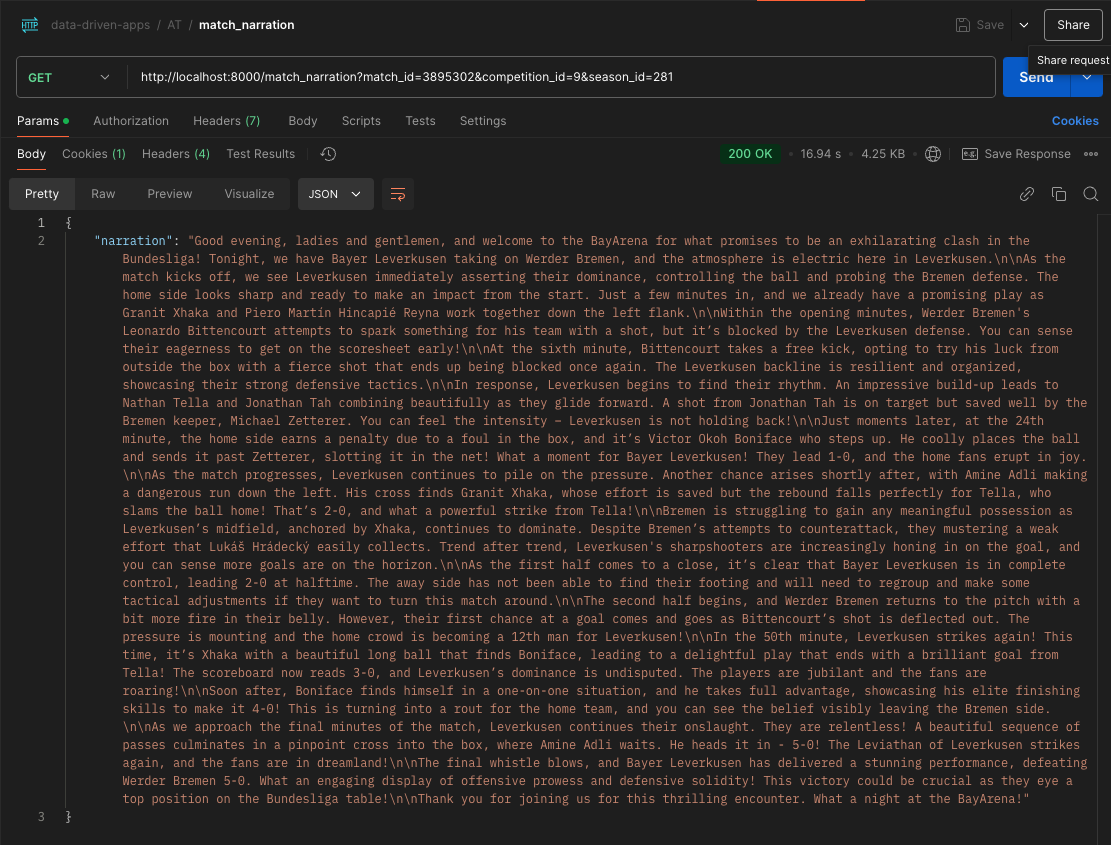
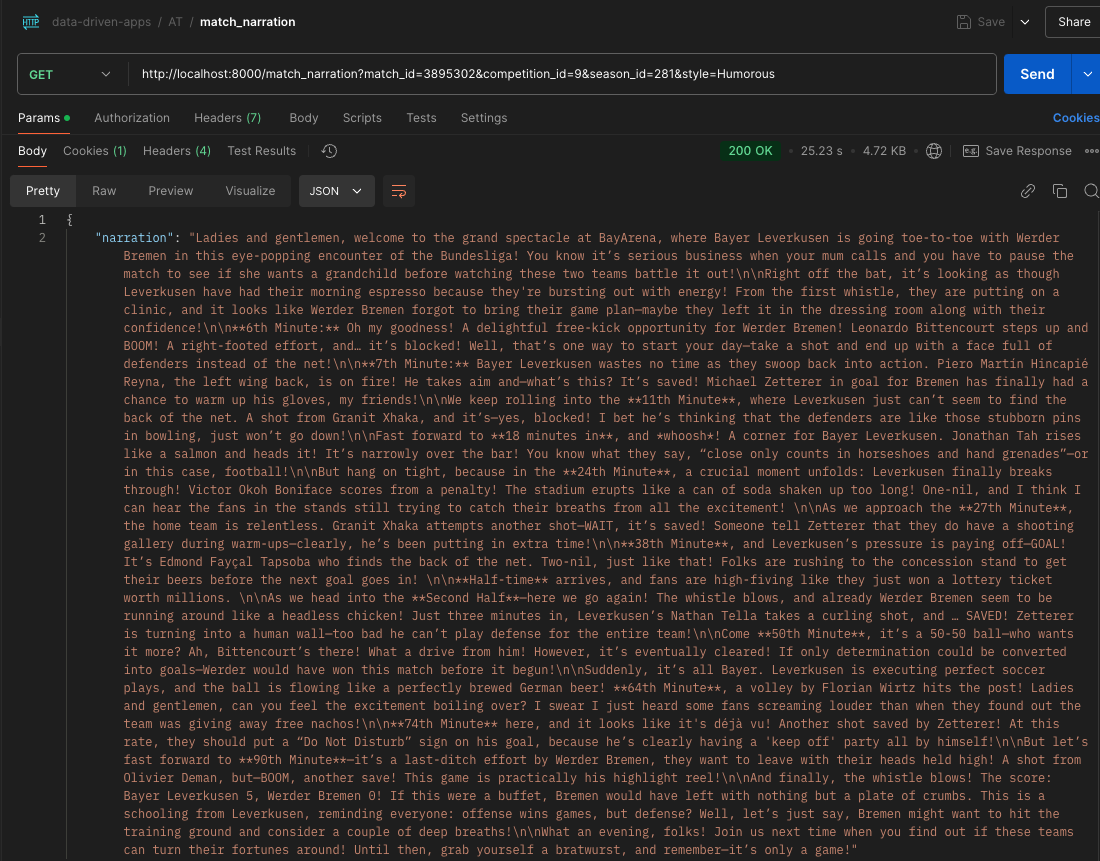
Adding match narration with styles

diff --git a/src/api_app.py b/src/api_app.py
@@ -3,7 +3,7 @@ from fastapi.encoders import jsonable_encoder
 from service.statsbomb_service import StatsBombService
 from service.openai_client_service import OpenAIClientService
 from dotenv import load_dotenv
-from typing import Dict, Any, List
+from typing import Dict, Any, List, Literal
 from fastapi.responses import JSONResponse
 from fastapi.requests import Request
 from model.openai_model import ChatRequest, ChatResponse, ChatSummary, ChatNarration
@@ -97,7 +97,12 @@ def get_player_profile(match_id: int, player_name: str) -> PlayerProfile:
     return jsonable_encoder(player_profile)
 
 @app.get("/match_narration")
-def get_match_narration(match_id: int, competition_id: int, season_id: int) -> ChatNarration:
+def get_match_narration(
+        match_id: int,
+        competition_id: int,
+        season_id: int,
+        style: Literal["Formal", "Humorous", "Technical"]
+    ) -> ChatNarration:
     """
         Retorna a narração de uma partida específica.
         
@@ -118,7 +123,7 @@ def get_match_narration(match_id: int, competition_id: int, season_id: int) -> C
         ]
     )
     
-    narration = OpenAIClientService.get_match_narration(match_dict, events_dict)
+    narration = OpenAIClientService.get_match_narration(match_dict, events_dict, style)
     return {"narration": narration}
 
 # Rotas adicionais para testes

diff --git a/src/service/openai_client_service.py b/src/service/openai_client_service.py
@@ -1,6 +1,6 @@
 import openai
 from openai import OpenAI, OpenAIError
-from typing import List, Dict, Any
+from typing import List, Dict, Any, Literal
 import logging
 import os
 
@@ -90,7 +90,11 @@ class OpenAIClientService:
             raise OpenAIClientError(f"Failed to get chat response: {e}")
         
     @staticmethod
-    def get_match_narration(match_dict: List[Dict[str, Any]], events_dict: List[Dict[str, Any]]) -> str:
+    def get_match_narration(
+            match_dict: List[Dict[str, Any]],
+            events_dict: List[Dict[str, Any]],
+            style: Literal["Formal", "Humorous", "Technical"] = "Formal"
+        ) -> str:
         OpenAIClientService.logger.info("Getting match narration.")
         
         api_key = os.getenv("OPENAI_API_KEY")
@@ -105,6 +109,8 @@ class OpenAIClientService:
             You are a sports commentator narrating a live broadcast of a football match between the home team and the away team.
             
             Utilize the information below to provide a detailed and engaging narration of the match.
+            
+            You must use a {style.lower()} style of commentary.
             
             Match General Information: {match_dict}
             
